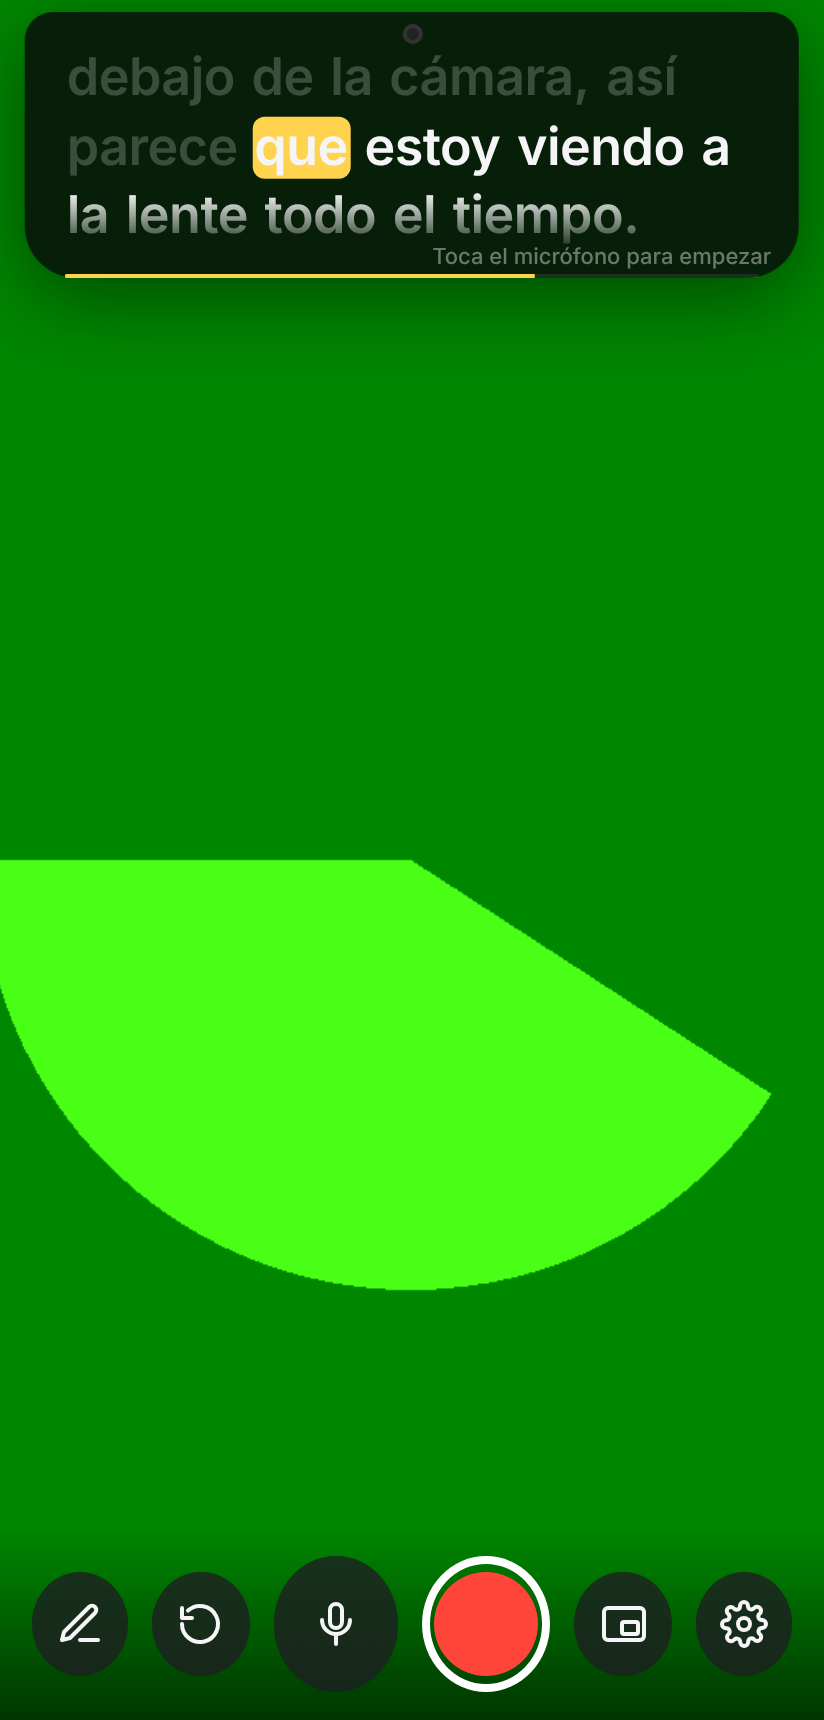
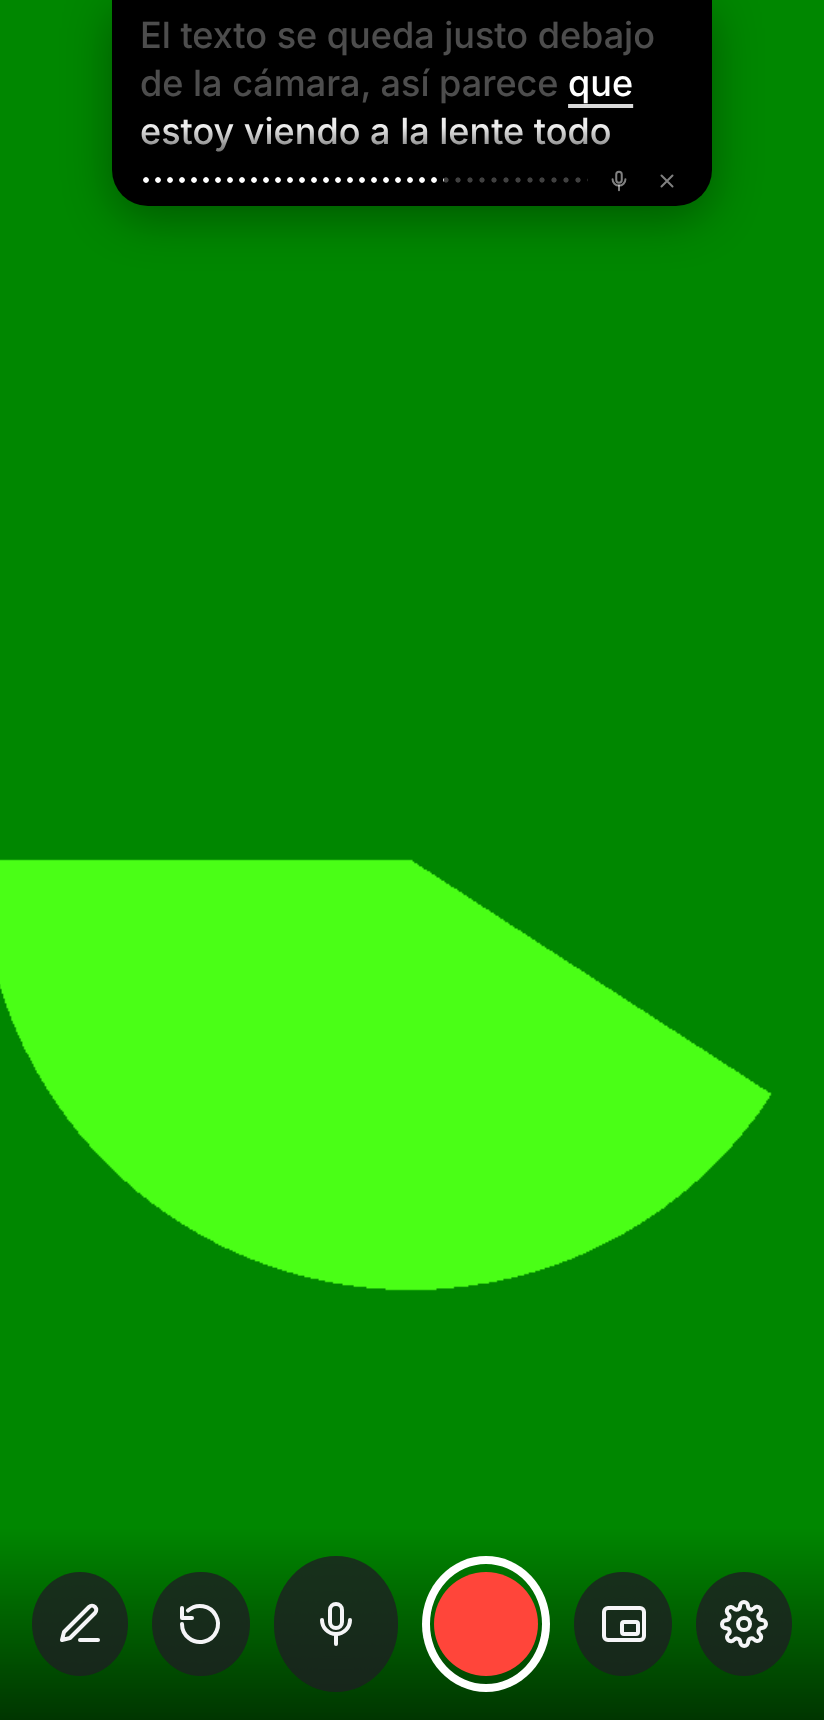
Pastilla compacta tipo notch y pantalla de permisos de cámara/micrófono
Claude-Session: https://claude.ai/code/session_0185r8sZsdzffFU6HYrSpW6i

Changed region(s): [[0.0, 0.0, 1.0, 0.1849]]

diff --git a/index.html b/index.html
@@ -39,29 +39,45 @@ body.no-camera #cam{display:none}
 body.no-camera #nocam{display:flex}
 
 /* ---------- prompter (debajo de la cámara) ---------- */
-#prompter{position:fixed;left:50%;top:calc(var(--top) + 6px);transform:translateX(-50%);
-  width:min(94vw,820px);background:var(--panel);border-radius:14px 14px 26px 26px;
-  -webkit-backdrop-filter:blur(14px);backdrop-filter:blur(14px);
-  padding:10px 20px 12px;box-shadow:0 10px 40px rgba(0,0,0,.45);z-index:5;
-  touch-action:none}
-#prompter .dot{position:absolute;top:6px;left:50%;width:10px;height:10px;margin-left:-5px;border-radius:50%;
-  background:#222;box-shadow:inset 0 0 0 2px #333}
-#prompter.listening .dot{background:var(--accent);box-shadow:0 0 12px var(--accent)}
-#viewport{height:calc(var(--fs) * var(--line) * var(--lines));overflow:hidden;position:relative;margin-top:8px;
-  -webkit-mask-image:linear-gradient(#000 0,#000 70%,transparent 100%);mask-image:linear-gradient(#000 0,#000 70%,transparent 100%)}
-#text{font-size:var(--fs);line-height:var(--line);font-weight:600;letter-spacing:-.01em;
+#prompter{position:fixed;left:50%;top:0;transform:translateX(-50%);
+  width:min(92vw,440px);background:#000;border-radius:0 0 22px 22px;
+  padding:calc(var(--top) + 10px) 18px 7px;box-shadow:0 6px 24px rgba(0,0,0,.35);z-index:5;
+  touch-action:none;transition:width .25s}
+#viewport{height:calc(var(--fs) * var(--line) * var(--lines));overflow:hidden;position:relative;
+  -webkit-mask-image:linear-gradient(#000 0,#000 78%,rgba(0,0,0,.35) 100%);mask-image:linear-gradient(#000 0,#000 78%,rgba(0,0,0,.35) 100%)}
+#text{font-size:var(--fs);line-height:var(--line);font-weight:500;letter-spacing:0;
   transition:transform .35s cubic-bezier(.2,.7,.2,1);will-change:transform;text-wrap:pretty}
-#text .w{color:var(--ink-dim);border-radius:6px;padding:0 1px;transition:color .15s,background .15s;cursor:pointer}
-#text .w.read{color:var(--ink-read)}
-#text .w.next{color:var(--ink)}
-#text .w.cur{color:var(--accent-ink);background:var(--accent)}
-#text .br{display:block;height:.35em}
-#prompter.mirror-text #text{transform-origin:center}
+#text .w{color:rgba(255,255,255,.93);transition:color .2s;cursor:pointer}
+#text .w.read{color:rgba(255,255,255,.3)}
+#text .w.cur{color:#fff;text-decoration:underline;text-decoration-thickness:2px;text-underline-offset:.22em;text-decoration-color:rgba(255,255,255,.85)}
+#text .br{display:block;height:0}
 #prompter.mirror-text #viewport{transform:scaleX(-1)}
-#status{position:absolute;right:14px;bottom:4px;font-size:11px;color:var(--ink-dim);font-weight:500;
-  max-width:70%;white-space:nowrap;overflow:hidden;text-overflow:ellipsis}
-#progress{position:absolute;left:20px;right:20px;bottom:0;height:2px;background:rgba(255,255,255,.08);border-radius:2px;overflow:hidden}
-#progress i{display:block;height:100%;width:0;background:var(--accent);transition:width .3s}
+#pfoot{display:flex;align-items:center;gap:8px;margin-top:5px;height:20px}
+#progress{flex:1;height:4px;position:relative;overflow:hidden;
+  background-image:radial-gradient(circle,rgba(255,255,255,.25) 1.1px,transparent 1.5px);background-size:6px 4px}
+#progress i{position:absolute;left:0;top:0;bottom:0;width:0;transition:width .3s;
+  background-image:radial-gradient(circle,#fff 1.2px,transparent 1.6px);background-size:6px 4px}
+#status{font-size:10px;color:rgba(255,255,255,.45);max-width:45%;white-space:nowrap;overflow:hidden;text-overflow:ellipsis}
+.mini{width:22px;height:22px;border:0;background:none;padding:0;display:grid;place-items:center;color:rgba(255,255,255,.5);cursor:pointer}
+.mini svg{width:13px;height:13px;fill:none;stroke:currentColor;stroke-width:2.2;stroke-linecap:round;stroke-linejoin:round}
+#prompter.listening #miniMic{color:#ffd34d;animation:pulse 1.4s ease-in-out infinite}
+@keyframes pulse{50%{opacity:.45}}
+#prompter.min{width:120px}
+@media (max-width:600px){
+  #prompter{width:min(74vw,300px);padding:calc(var(--top) + 8px) 14px 5px;border-radius:0 0 18px 18px}
+  #pfoot{height:16px;margin-top:3px;gap:6px}
+  #status{display:none}
+  .mini{width:18px;height:18px}.mini svg{width:11px;height:11px}
+}
+#perm{position:fixed;inset:0;z-index:40;display:none;align-items:center;justify-content:center;padding:24px;background:#000}
+#perm.show{display:flex}
+#perm .pc{max-width:340px;text-align:center;display:flex;flex-direction:column;gap:14px;align-items:center}
+#perm h1{font-size:22px;margin:0}
+#perm p{margin:0;color:rgba(255,255,255,.6);font-size:15px;line-height:1.45}
+#perm .ico{width:64px;height:64px;border-radius:20px;background:#1a1a1d;display:grid;place-items:center}
+#perm .ico svg{width:30px;height:30px;fill:none;stroke:#ffd34d;stroke-width:2;stroke-linecap:round;stroke-linejoin:round}
+#perm .skip{background:none;border:0;color:rgba(255,255,255,.5);font-size:14px;cursor:pointer;padding:6px}
+#prompter.min #viewport,#prompter.min #status{display:none}
 
 /* ---------- controles ---------- */
 #bar{position:fixed;left:0;right:0;bottom:0;z-index:6;display:flex;justify-content:center;align-items:center;gap:12px;
@@ -107,19 +123,29 @@ textarea{width:100%;min-height:46vh;background:#0c0c0e;color:var(--ink);border:1
 #toast.show{opacity:1}
 
 /* ventana flotante (Picture-in-Picture) */
-body.pip #prompter{position:static;transform:none;width:100%;border-radius:0;box-shadow:none;height:100vh}
+body.pip #prompter{position:static;transform:none;width:100%;border-radius:0;box-shadow:none;height:100vh;padding:10px 18px 7px}
 body.pip{background:#000}
 </style>
 </head>
 <body>
 <video id="cam" class="mirror" autoplay playsinline muted></video>
+<div id="perm"><div class="pc">
+  <div class="ico"><svg viewBox="0 0 24 24"><path d="M23 7l-7 5 7 5z"/><rect x="1" y="5" width="15" height="14" rx="2"/></svg></div>
+  <h1>Activa tu cámara y micrófono</h1>
+  <p id="permMsg">Los necesito para mostrarte en cámara y para seguir tu voz palabra por palabra.</p>
+  <button class="pill primary" id="permBtn">Permitir cámara y micrófono</button>
+  <button class="skip" id="permSkip">Usar solo texto</button>
+</div></div>
 <div id="nocam">Cámara apagada.<br>Modo solo texto: usa “Flotante” para ponerlo encima de tu app de videollamada o grabación.</div>
 
 <div id="prompter">
-  <span class="dot"></span>
   <div id="viewport"><div id="text"></div></div>
-  <div id="status">Toca el micrófono para empezar</div>
-  <div id="progress"><i></i></div>
+  <div id="pfoot">
+    <div id="progress"><i></i></div>
+    <span id="status">Toca el micrófono</span>
+    <button class="mini" id="miniMic" aria-label="Seguir mi voz"><svg viewBox="0 0 24 24"><rect x="9" y="2" width="6" height="12" rx="3"/><path d="M5 10a7 7 0 0 0 14 0"/><path d="M12 17v5"/></svg></button>
+    <button class="mini" id="miniX" aria-label="Minimizar"><svg viewBox="0 0 24 24"><path d="M6 6l12 12M18 6L6 18"/></svg></button>
+  </div>
 </div>
 
 <div id="recTime">● 00:00</div>
@@ -154,7 +180,7 @@ body.pip{background:#000}
 <div class="sheet" id="setSheet">
   <div class="card">
     <h2>Ajustes</h2>
-    <div class="row"><label for="fs">Tamaño de letra</label><input type="range" id="fs" min="18" max="64" step="1"></div>
+    <div class="row"><label for="fs">Tamaño de letra</label><input type="range" id="fs" min="13" max="48" step="1"></div>
     <div class="row"><label for="lines">Líneas visibles</label><input type="range" id="lines" min="1" max="6" step="1"></div>
     <div class="row"><label for="lang">Idioma de tu voz</label>
       <select id="lang">
@@ -187,13 +213,13 @@ El texto se queda justo debajo de la cámara, así parece que estoy viendo a la 
 Si me salto una parte, el texto me alcanza solito. ¡Vamos a empezar!`;
 
 const store = {
-  get(k, d){ try{ const v = localStorage.getItem('pv_'+k); return v === null ? d : JSON.parse(v); }catch(e){ return d; } },
-  set(k, v){ try{ localStorage.setItem('pv_'+k, JSON.stringify(v)); }catch(e){} }
+  get(k, d){ try{ const v = localStorage.getItem('pv2_'+k); return v === null ? d : JSON.parse(v); }catch(e){ return d; } },
+  set(k, v){ try{ localStorage.setItem('pv2_'+k, JSON.stringify(v)); }catch(e){} }
 };
 
 const S = {
   script: store.get('script', DEFAULT_SCRIPT),
-  fs: store.get('fs', window.innerWidth < 600 ? 26 : 34),
+  fs: store.get('fs', window.innerWidth < 600 ? 18 : 21),
   lines: store.get('lines', 3),
   lang: store.get('lang', 'es-MX'),
   camOn: store.get('camOn', true),
@@ -262,7 +288,13 @@ function scrollTo(spanIdx, instant){
   const lh = parseFloat(getComputedStyle(textEl).fontSize) * parseFloat(getComputedStyle(document.documentElement).getPropertyValue('--line'));
   // la línea actual queda en la 1a línea si sólo hay 1-2 líneas, si no en la 2a (muestra contexto anterior)
   const keep = S.lines >= 3 ? 1 : 0;
-  let y = Math.max(0, target.offsetTop - keep * lh);
+  let y = target.offsetTop;
+  if (keep){
+    // sube a la línea anterior real (respeta saltos de párrafo)
+    const i0 = spans.indexOf(target);
+    for (let i = i0 - 1; i >= 0; i--){ if (spans[i].offsetTop < target.offsetTop - 2){ y = spans[i].offsetTop; break; } }
+  }
+  y = Math.max(0, y);
   y += manualOffset;
   if (instant){ textEl.style.transition='none'; requestAnimationFrame(()=>{ textEl.style.transition=''; }); }
   textEl.style.transform = `translateY(${-y}px)`;
@@ -333,7 +365,7 @@ function startListening(){
   if (!SR){ toast('Tu navegador no tiene reconocimiento de voz. Usa Chrome o Edge.'); return; }
   listening = true; finalBuf = '';
   prompter.classList.add('listening'); $('micBtn').classList.add('on');
-  setStatus('Escuchando…');
+  setStatus('');
   paint();
   newRec();
 }
@@ -350,7 +382,7 @@ function newRec(){
     }
     const heard = (finalBuf + ' ' + interim).trim();
     follow(heard);
-    setStatus('“' + heard.split(/\s+/).slice(-5).join(' ') + '”');
+    setStatus('');
     if (pos >= W.length){ setStatus('¡Terminaste!'); }
   };
   rec.onerror = e => {
@@ -376,6 +408,27 @@ function stopListening(){
 /* ================= cámara y grabación ================= */
 const video = $('cam');
 let camStream = null;
+async function askPerms(){
+  try{
+    const st = await navigator.mediaDevices.getUserMedia({
+      video:{ facingMode:'user', width:{ideal:1920}, height:{ideal:1080} }, audio:true });
+    st.getAudioTracks().forEach(t => t.stop());           // el micro solo era para el permiso
+    camStream = new MediaStream(st.getVideoTracks());
+    video.srcObject = camStream;
+    S.camOn = true; store.set('camOn', true); $('camOn').checked = true;
+    document.body.classList.remove('no-camera');
+    $('perm').classList.remove('show');
+  }catch(err){
+    $('permMsg').innerHTML = 'No se dio el permiso. Toca el candado 🔒 junto a la dirección → Permisos → activa <b>Cámara</b> y <b>Micrófono</b>, y vuelve a intentar.';
+  }
+}
+async function initPerms(){
+  if (!S.camOn){ document.body.classList.add('no-camera'); return; }
+  let state = 'prompt';
+  try{ state = (await navigator.permissions.query({ name:'camera' })).state; }catch(e){}
+  if (state === 'granted') startCam();
+  else { document.body.classList.add('no-camera'); $('perm').classList.add('show'); }
+}
 async function startCam(){
   if (!S.camOn){ document.body.classList.add('no-camera'); return; }
   document.body.classList.remove('no-camera');
@@ -449,7 +502,7 @@ async function togglePip(){
   if (!('documentPictureInPicture' in window)){
     toast('La ventana flotante funciona en Chrome o Edge de computadora.'); return;
   }
-  const h = Math.round(S.fs * 1.32 * S.lines + 46);
+  const h = Math.round(S.fs * 1.32 * S.lines + 52);
   pipWin = await documentPictureInPicture.requestWindow({ width: Math.min(900, screen.availWidth*0.6|0), height: h });
   const st = document.querySelector('style').cloneNode(true);
   pipWin.document.head.appendChild(st);
@@ -494,6 +547,8 @@ window.addEventListener('pointerup', () => {
 });
 
 $('micBtn').onclick = () => listening ? stopListening() : startListening();
+$('miniMic').onclick = e => { e.stopPropagation(); $('micBtn').click(); };
+$('miniX').onclick = e => { e.stopPropagation(); prompter.classList.toggle('min'); setTimeout(() => paint(true), 260); };
 $('resetBtn').onclick = () => { pos = 0; manualOffset = 0; finalBuf = ''; paint(true); if (listening) newRec(); };
 $('recBtn').onclick = toggleRec;
 $('pipBtn').onclick = togglePip;
@@ -543,7 +598,9 @@ document.addEventListener('visibilitychange', () => { if (!document.hidden && li
 
 applyLook();
 build();
-startCam();
+$('permBtn').onclick = askPerms;
+$('permSkip').onclick = () => { S.camOn = false; store.set('camOn', false); $('camOn').checked = false; $('perm').classList.remove('show'); document.body.classList.add('no-camera'); };
+initPerms();
 if (!SR) setStatus('Sin reconocimiento de voz: abre en Chrome o Edge');
 
 if ('serviceWorker' in navigator && location.protocol === 'https:') navigator.serviceWorker.register('sw.js').catch(()=>{});

diff --git a/sw.js b/sw.js
@@ -1,4 +1,4 @@
-const C = 'prompter-v1';
+const C = 'prompter-v2';
 const FILES = ['./', 'index.html', 'manifest.json', 'icons/icon-192.png', 'icons/icon-512.png'];
 self.addEventListener('install', e => { e.waitUntil(caches.open(C).then(c => c.addAll(FILES))); self.skipWaiting(); });
 self.addEventListener('activate', e => { e.waitUntil(caches.keys().then(ks => Promise.all(ks.filter(k => k !== C).map(k => caches.delete(k))))); self.clients.claim(); });
